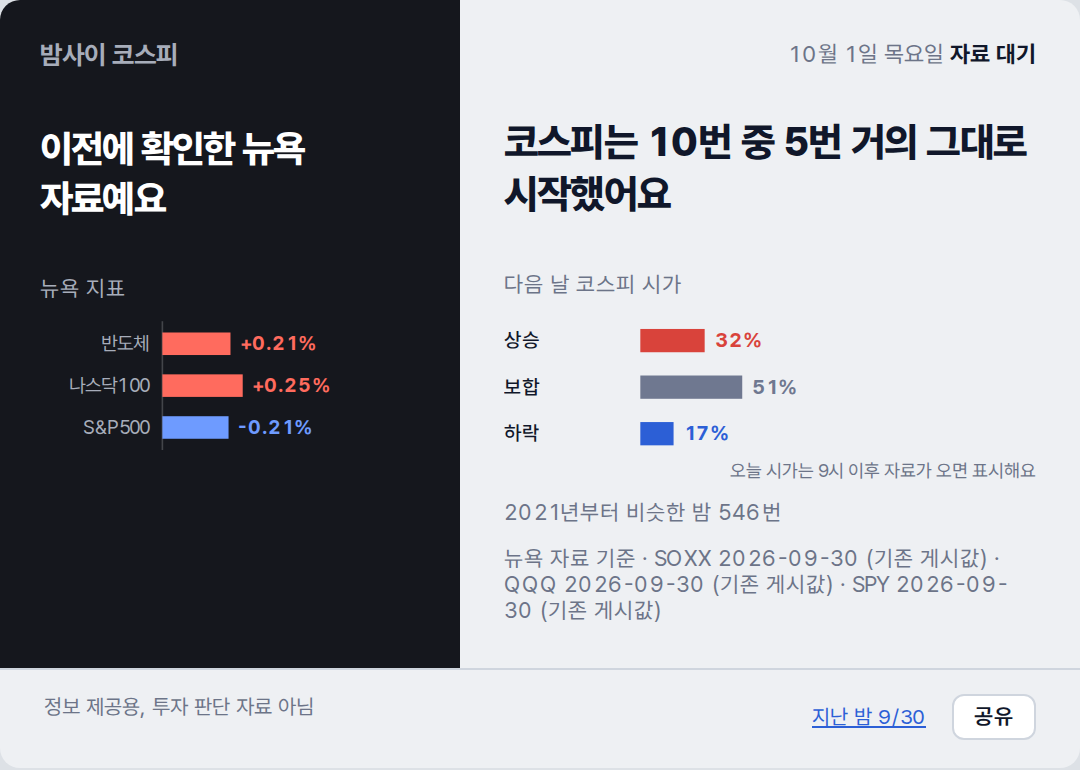
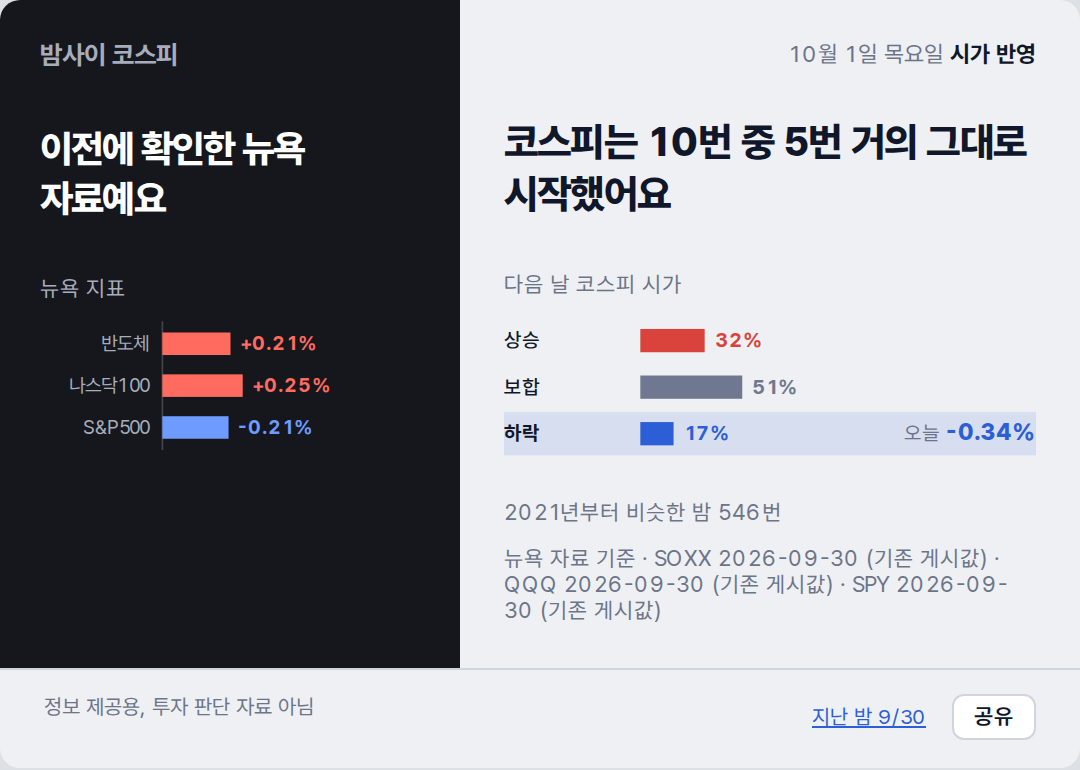
deploy: c0d07a214321b41f7cf333fef670b17ffe5b5852

Changed region(s): [[0.6722, 0.5299, 0.9778, 0.6234], [0.8861, 0.0312, 0.9778, 0.0935], [0.4583, 0.5299, 0.4889, 0.5922]]

diff --git a/2026-10-01/index.html b/2026-10-01/index.html
@@ -38,17 +38,18 @@ footer a{color:#2C5FD6}
 <rect x="76" y="61" width="41.1" height="14" fill="var(--down)"/>
 <text x="123.1" y="72" fill="var(--down)" font-weight="700">-0.21%</text>
 </svg></section>
-<section class="day"><p class="stamp">10월 1일 목요일 <b>자료 대기</b></p><p class="claim">코스피는 10번 중 5번 거의 그대로 시작했어요</p><p class="lab">다음 날 코스피 시가</p><svg viewBox="0 0 320 100" xmlns="http://www.w3.org/2000/svg" font-family="var(--sans)" font-size="12">
+<section class="day"><p class="stamp">10월 1일 목요일 <b>시가 반영</b></p><p class="claim">코스피는 10번 중 5번 거의 그대로 시작했어요</p><p class="lab">다음 날 코스피 시가</p><svg viewBox="0 0 320 100" xmlns="http://www.w3.org/2000/svg" font-family="var(--sans)" font-size="12">
 <text x="0" y="20" fill="var(--ink)" font-weight="500">상승</text>
 <rect x="82" y="9" width="38.7" height="14" fill="var(--up)"/>
 <text x="126.7" y="20" fill="var(--up)" font-weight="700">32%</text>
 <text x="0" y="48" fill="var(--ink)" font-weight="500">보합</text>
 <rect x="82" y="37" width="61.3" height="14" fill="var(--flat)"/>
 <text x="149.3" y="48" fill="var(--flat)" font-weight="700">51%</text>
-<text x="0" y="76" fill="var(--ink)" font-weight="500">하락</text>
+<rect x="0" y="59" width="320" height="26" fill="var(--down)" opacity=".12"/>
+<text x="0" y="76" fill="var(--ink)" font-weight="700">하락</text>
 <rect x="82" y="65" width="20.0" height="14" fill="var(--down)"/>
 <text x="108.0" y="76" fill="var(--down)" font-weight="700">17%</text>
-<text x="320" y="98" text-anchor="end" fill="var(--muted)" font-size="11">오늘 시가는 9시 이후 자료가 오면 표시해요</text>
+<text x="320" y="76" text-anchor="end" fill="var(--ink)"><tspan fill="var(--muted)">오늘 </tspan><tspan font-weight="800" font-size="14" fill="var(--down)">-0.34%</tspan></text>
 </svg><p class="cap">2021년부터 비슷한 밤 546번</p><p class="cap">뉴욕 자료 기준 · SOXX 2026-09-30 (기존 게시값) · QQQ 2026-09-30 (기존 게시값) · SPY 2026-09-30 (기존 게시값)</p></section>
 <footer><span>정보 제공용, 투자 판단 자료 아님</span><span style="white-space:nowrap"><a href="../2026-09-30/">지난 밤 9/30</a> <button class="share" type="button">공유</button></span></footer>
 <script>

diff --git a/index.html b/index.html
@@ -38,17 +38,18 @@ footer a{color:#2C5FD6}
 <rect x="76" y="61" width="41.1" height="14" fill="var(--down)"/>
 <text x="123.1" y="72" fill="var(--down)" font-weight="700">-0.21%</text>
 </svg></section>
-<section class="day"><p class="stamp">10월 1일 목요일 <b>자료 대기</b></p><p class="claim">코스피는 10번 중 5번 거의 그대로 시작했어요</p><p class="lab">다음 날 코스피 시가</p><svg viewBox="0 0 320 100" xmlns="http://www.w3.org/2000/svg" font-family="var(--sans)" font-size="12">
+<section class="day"><p class="stamp">10월 1일 목요일 <b>시가 반영</b></p><p class="claim">코스피는 10번 중 5번 거의 그대로 시작했어요</p><p class="lab">다음 날 코스피 시가</p><svg viewBox="0 0 320 100" xmlns="http://www.w3.org/2000/svg" font-family="var(--sans)" font-size="12">
 <text x="0" y="20" fill="var(--ink)" font-weight="500">상승</text>
 <rect x="82" y="9" width="38.7" height="14" fill="var(--up)"/>
 <text x="126.7" y="20" fill="var(--up)" font-weight="700">32%</text>
 <text x="0" y="48" fill="var(--ink)" font-weight="500">보합</text>
 <rect x="82" y="37" width="61.3" height="14" fill="var(--flat)"/>
 <text x="149.3" y="48" fill="var(--flat)" font-weight="700">51%</text>
-<text x="0" y="76" fill="var(--ink)" font-weight="500">하락</text>
+<rect x="0" y="59" width="320" height="26" fill="var(--down)" opacity=".12"/>
+<text x="0" y="76" fill="var(--ink)" font-weight="700">하락</text>
 <rect x="82" y="65" width="20.0" height="14" fill="var(--down)"/>
 <text x="108.0" y="76" fill="var(--down)" font-weight="700">17%</text>
-<text x="320" y="98" text-anchor="end" fill="var(--muted)" font-size="11">오늘 시가는 9시 이후 자료가 오면 표시해요</text>
+<text x="320" y="76" text-anchor="end" fill="var(--ink)"><tspan fill="var(--muted)">오늘 </tspan><tspan font-weight="800" font-size="14" fill="var(--down)">-0.34%</tspan></text>
 </svg><p class="cap">2021년부터 비슷한 밤 546번</p><p class="cap">뉴욕 자료 기준 · SOXX 2026-09-30 (기존 게시값) · QQQ 2026-09-30 (기존 게시값) · SPY 2026-09-30 (기존 게시값)</p></section>
 <footer><span>정보 제공용, 투자 판단 자료 아님</span><span style="white-space:nowrap"><a href="./2026-09-30/">지난 밤 9/30</a> <button class="share" type="button">공유</button></span></footer>
 <script>
